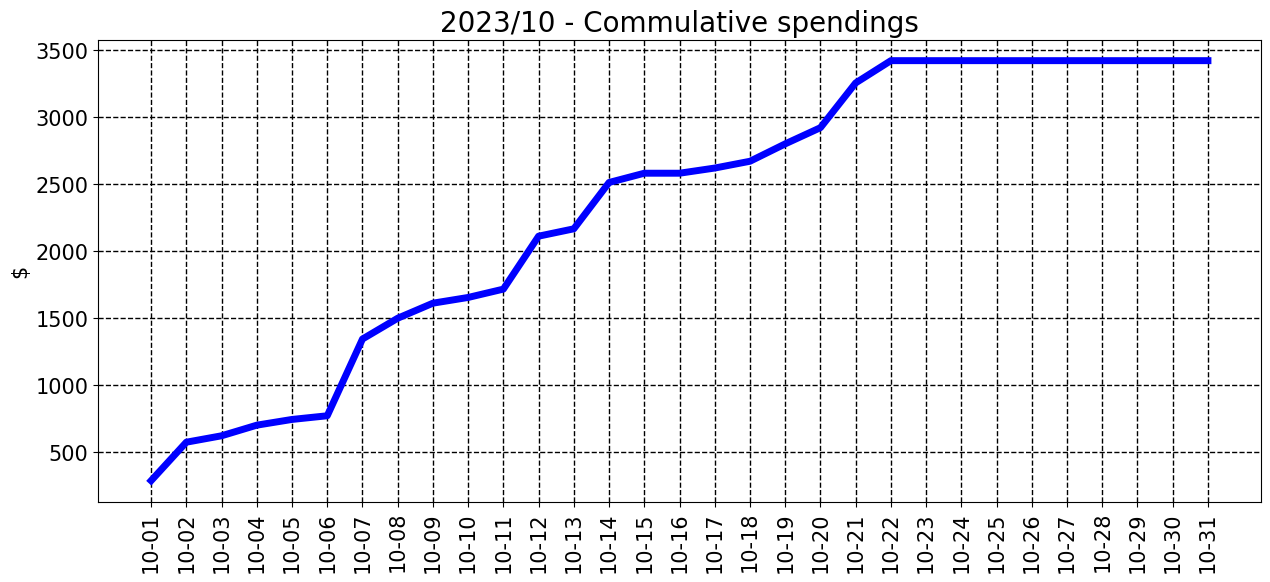
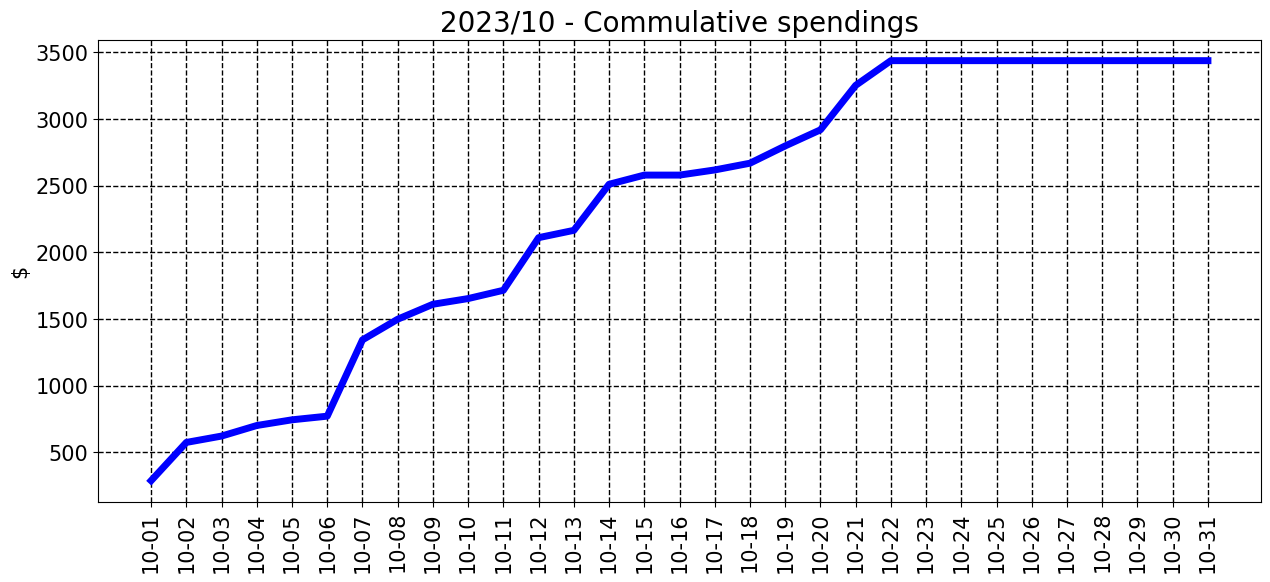
commit from python

diff --git a/README.md b/README.md
@@ -7,7 +7,7 @@ __________________________________
 <sub><sup>
 | Spent | Avg daily | End of month projection | Spent since 2023/7 |
 |---|---|---|---|
-| $3419.0  |  $155.4  | $4817.0  |  $18778.0  |
+| $3439.0  |  $149.5  | $4634.0  |  $18797.0  |
 </sub></sup>
 __________________________________
 ![graph_10_sum](graph_10_sum.png)
